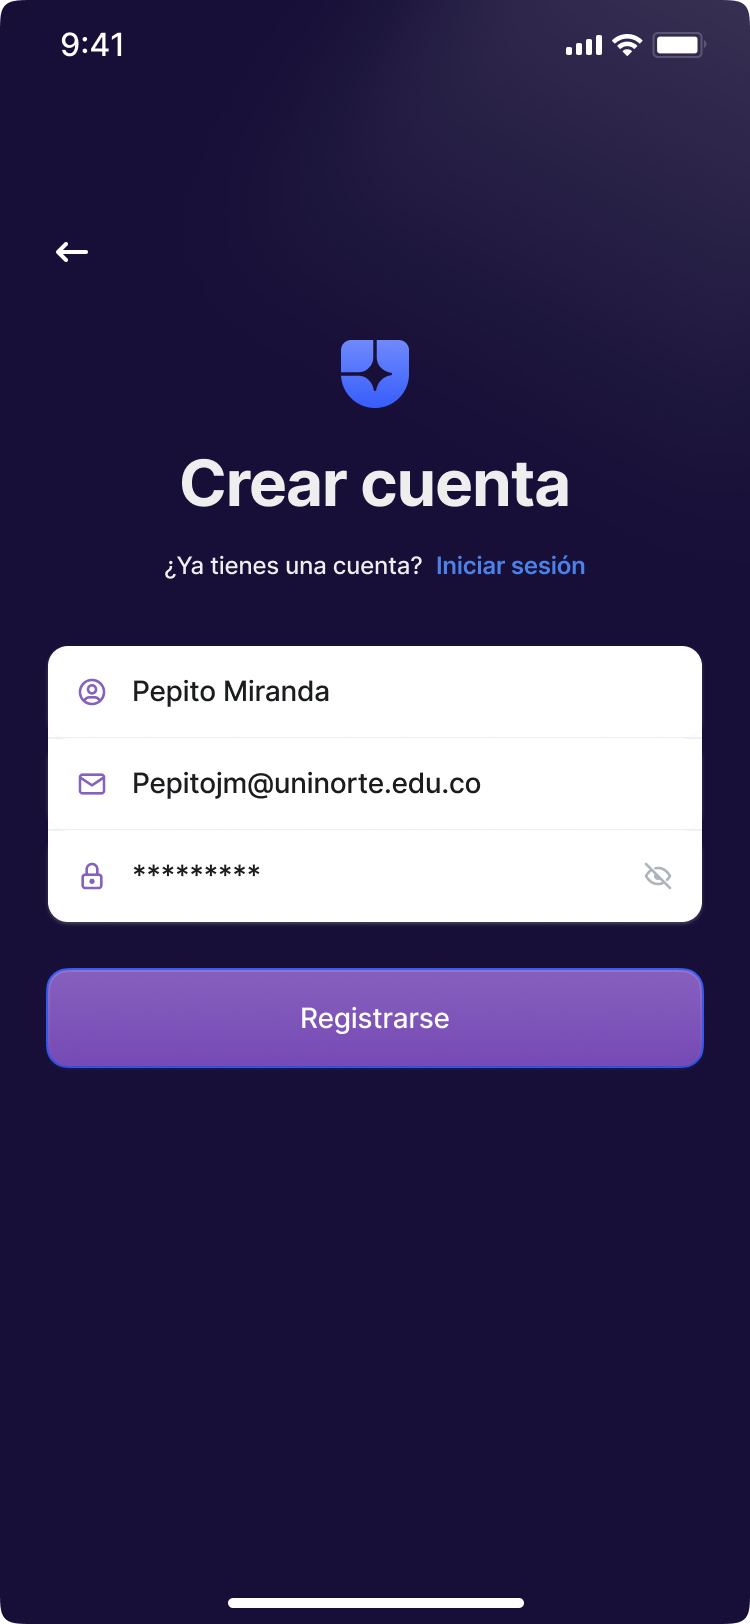
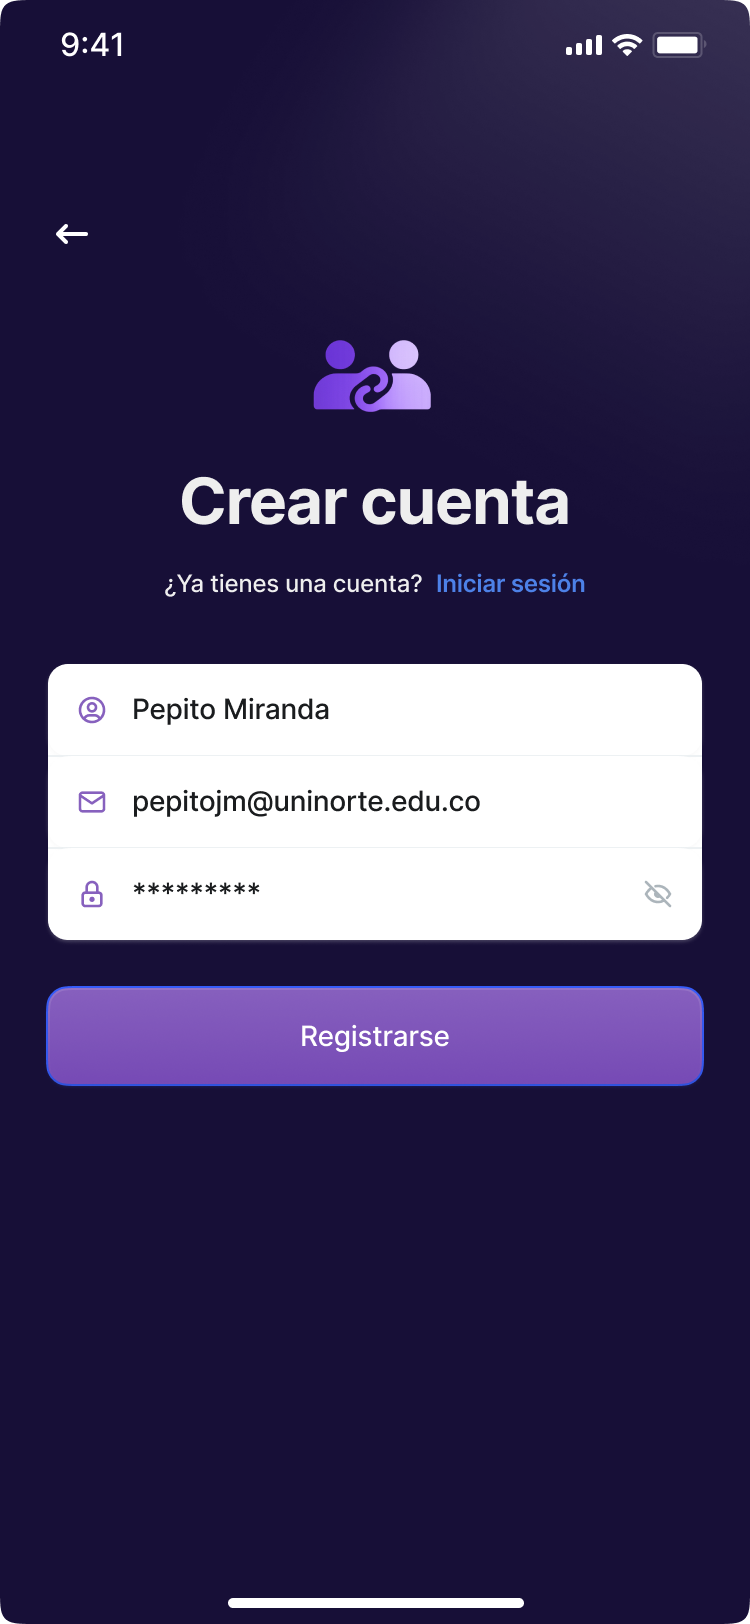
Update to students templates

Changed region(s): [[0.0613, 0.4002, 0.9507, 0.6773], [0.2147, 0.1847, 0.7973, 0.3695], [0.0613, 0.1232, 0.092, 0.1539]]

diff --git a/Alejandra Valencia Rua/README.md b/Alejandra Valencia Rua/README.md
@@ -360,20 +360,38 @@ Este mecanismo controla el acceso sin exponer cursos públicamente.
 
 ![alt text](imgs/image-5.png)
 
+![alt text](image.png)
+
 <br>
 
 ### 5.2. Prototipo
 
-<img src="imgs/image-8.png" width="300">
+**Inicio de Sesión y Registro:**
+
+<img src="imgs/image-6.png" width="300">
+
 
 <img src="imgs/image-7.png" width="300">
 
+<br>
+
+**Vistas Teacher:**
+
+
+
+<br>
+
+**Vistas Student:**
+
+<img src="imgs/image-8.png" width="300">
+
 <img src="imgs/image-11.png" width="300">
+
+<img src="imgs/image.png" width="300">
 
 <img src="imgs/image-9.png" width="300">
 
 <img src="imgs/image-10.png" width="300">
-
 <br>
 
 ## 6. Referencias
